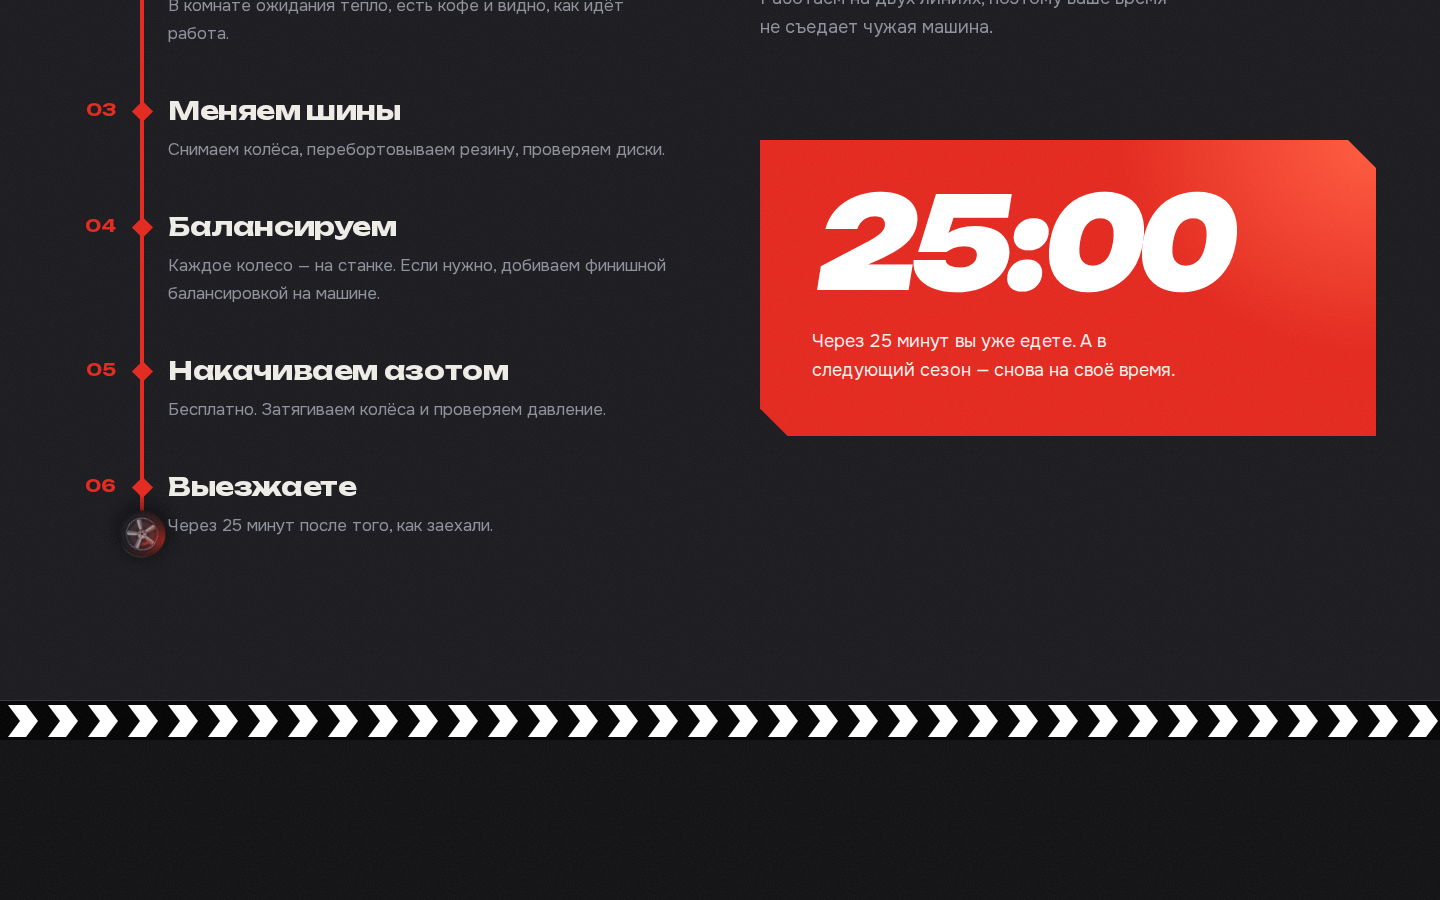
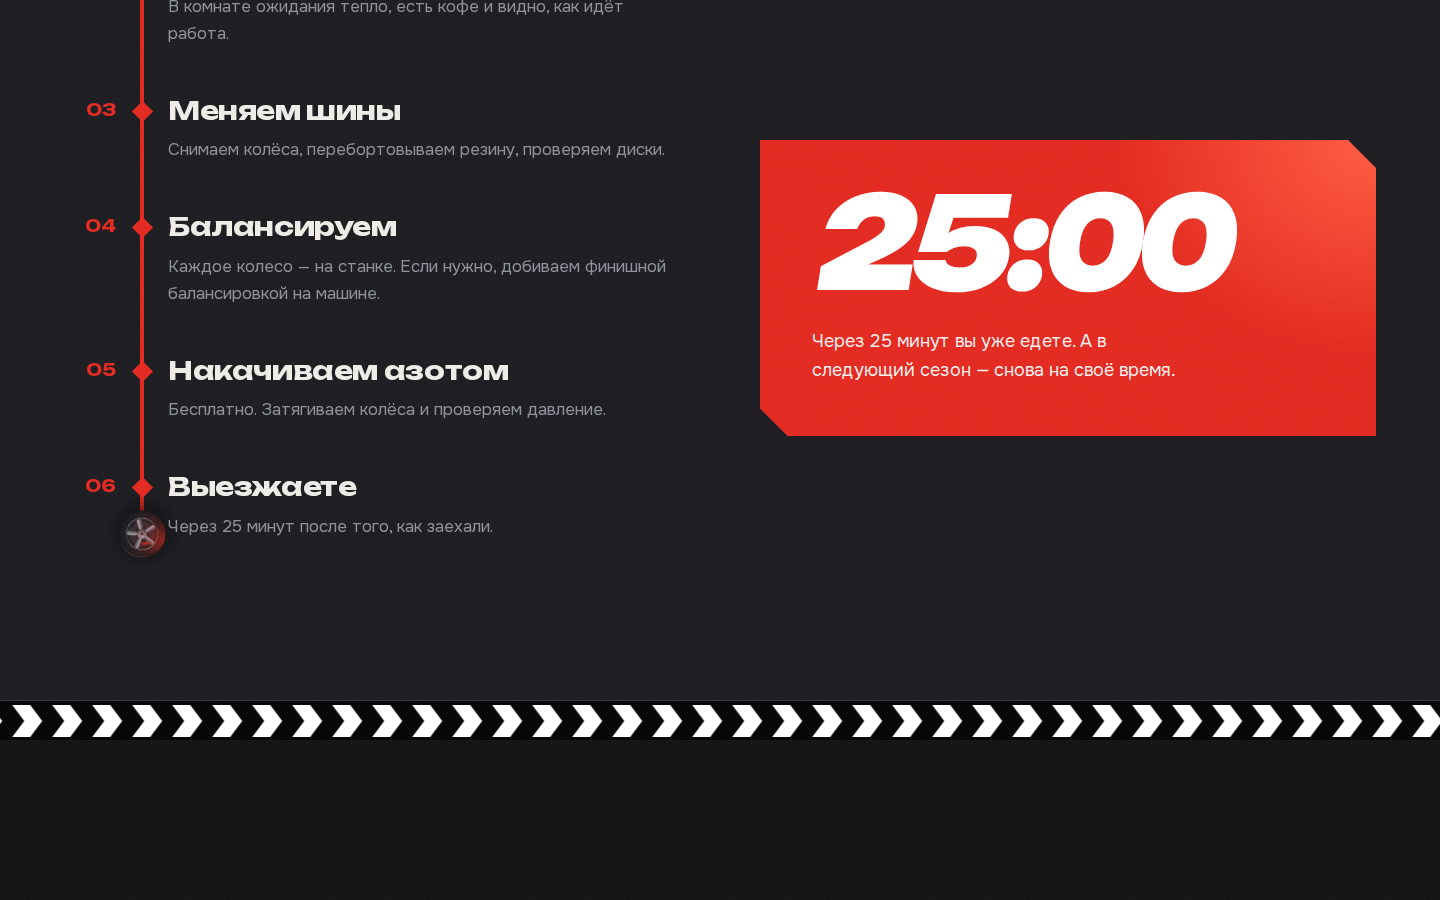
ПРОТЕКТОР, компьютер: «25 минут» — заголовок сверху над этапами
Claude-Session: https://claude.ai/code/session_01CSYCmsYEsfGfuLAZRJC8KX

diff --git a/protektor/styles.css b/protektor/styles.css
@@ -1587,3 +1587,13 @@ main { overflow-x: clip; }
   .visit__head, .visit__bar { grid-column: 2; }
   .mtl { grid-column: 1; }
 }
+
+/* Компьютер: «25 минут» — заголовок сверху над этапами, ниже этапы слева и таймер справа */
+@media (min-width: 1081px) {
+  .visit__inner { grid-template-rows: auto auto; row-gap: 64px; }
+  .visit__head { grid-column: 1 / -1; grid-row: 1; display: flex; align-items: flex-end; justify-content: space-between; gap: 64px; }
+  .visit__title { white-space: nowrap; }
+  .visit__note { margin: 0 0 8px; }
+  .mtl { grid-column: 1; grid-row: 2; padding-top: 0; }
+  .visit__bar { grid-column: 2; grid-row: 2; margin-top: 0; }
+}
